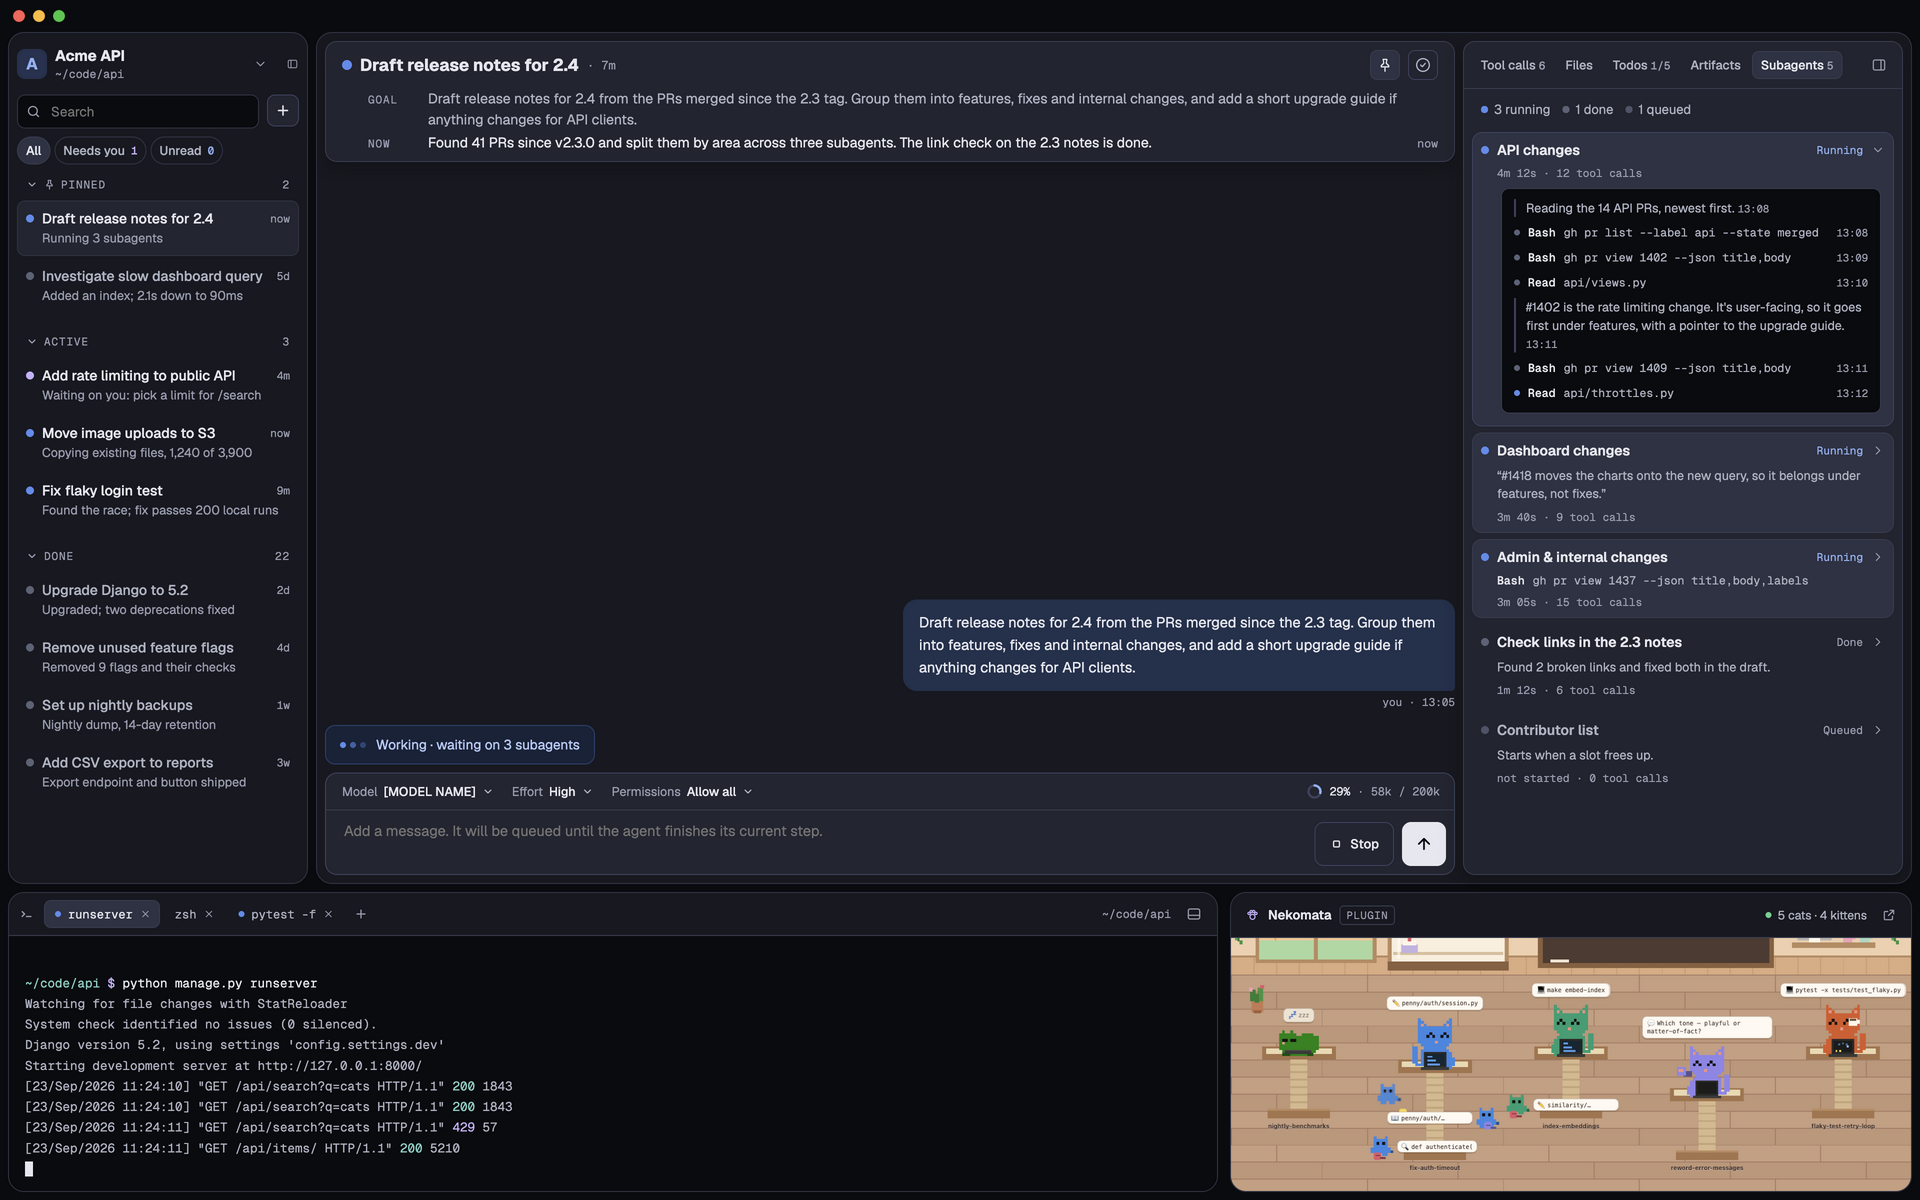
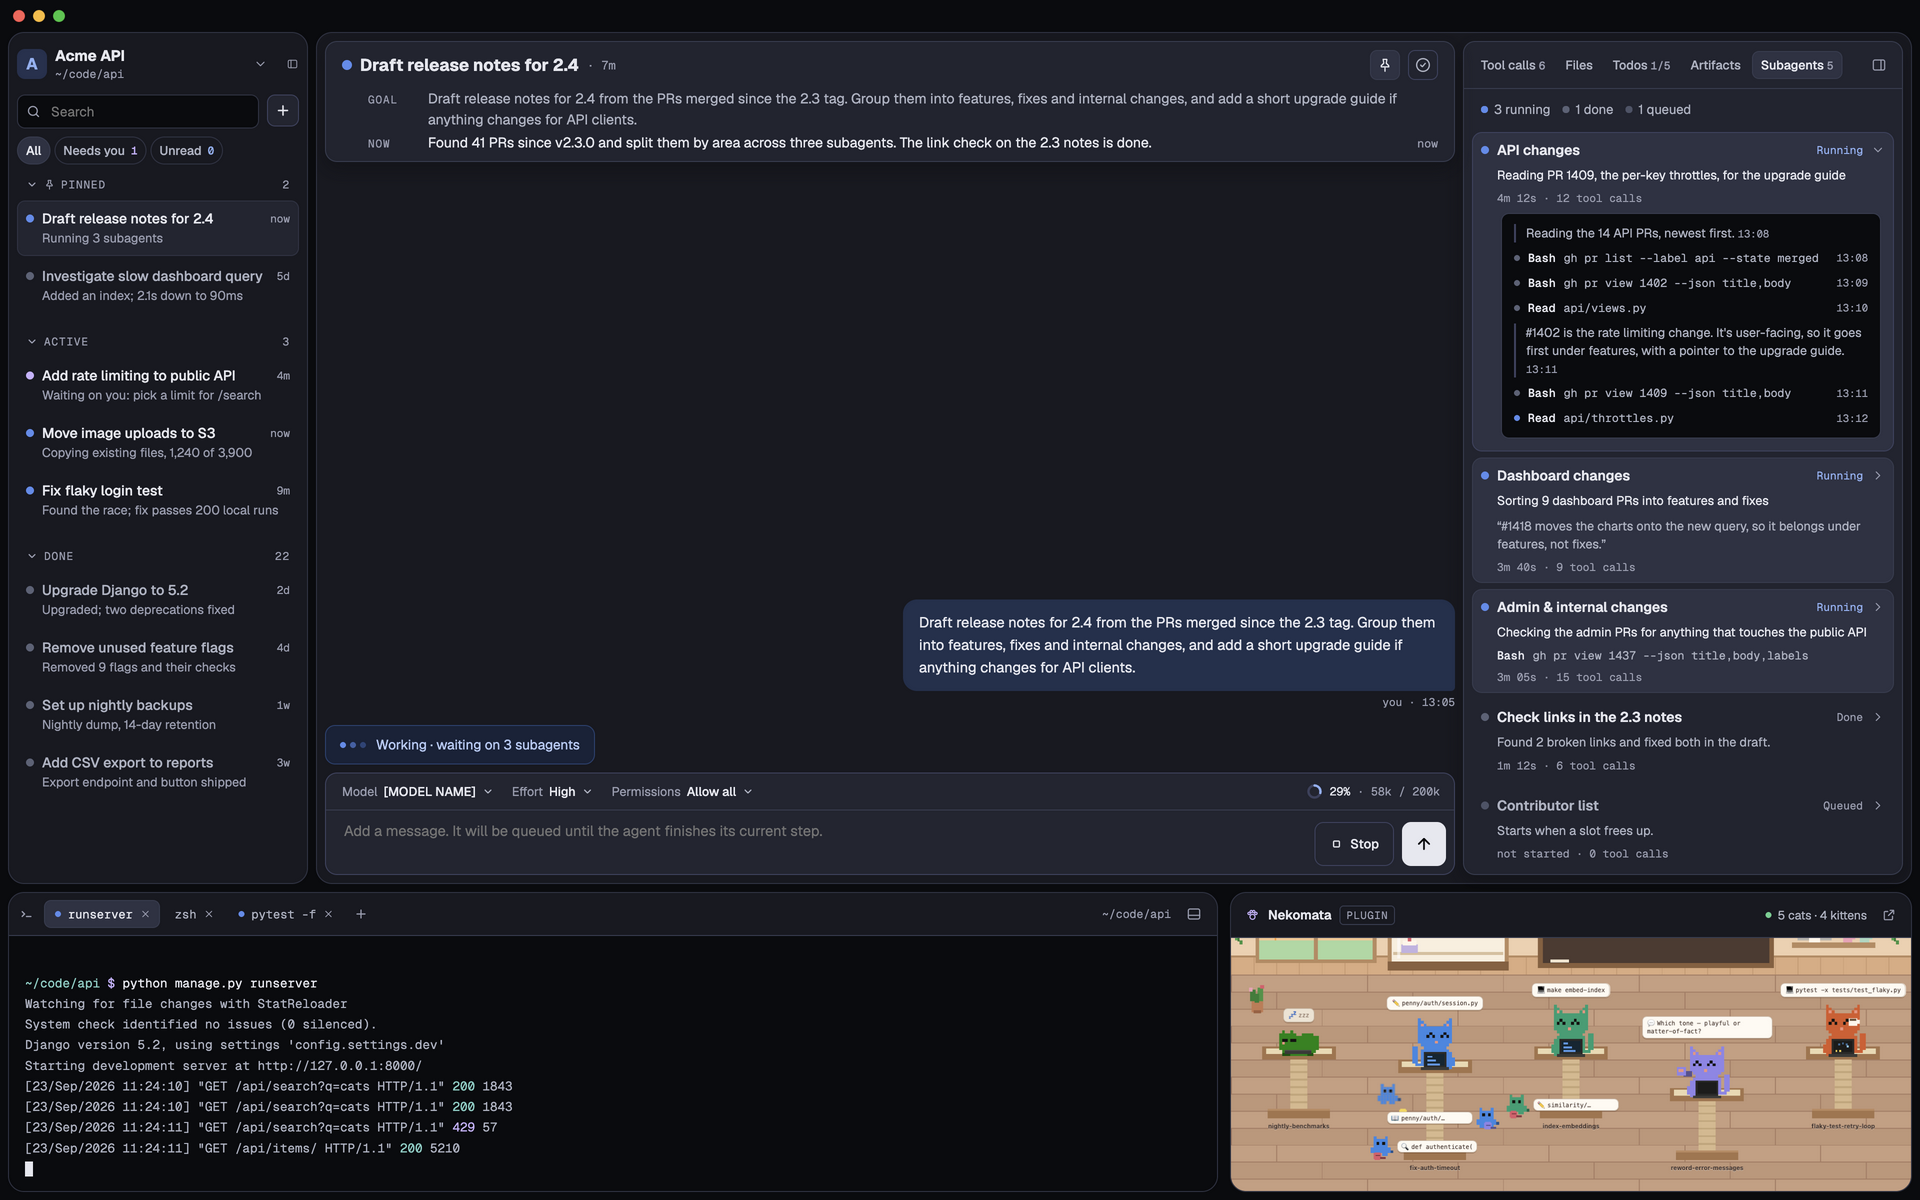
#278: Document progress summaries, and show them in the design and README
Record the probe of task_progress summaries in the SDK notes, describe
the line in the user guide, and re-render 11-subagents and the README's
Subagents screenshot with it.

Changed region(s): [[0.7812, 0.1233, 1.0, 0.7092], [0.9375, 0.5858, 0.9688, 0.6167]]

diff --git a/docs/design/html/11-subagents.html b/docs/design/html/11-subagents.html
@@ -140,6 +140,7 @@ a{color:#8FB2F5}a:hover{color:#B5CBF8}
 <div style="flex-shrink: 0; background: #2E3243; border: 1px solid #3D425E; border-radius: 10px">
 <button type="button" aria-expanded="true" style="display: flex; flex-direction: column; gap: 7px; width: 100%; box-sizing: border-box; padding: 8px; background: transparent; border: 0; text-align: left; font: inherit; color: inherit; cursor: pointer">
 <span style="display: flex; align-items: center; gap: 8px; width: 100%"><span style="flex-shrink: 0; width: 8px; height: 8px; border-radius: 4px; background: #5B8DEF"></span><span style="flex-grow: 1; min-width: 0; font-size: 14px; font-weight: 600; color: #E6E8F0; white-space: nowrap; overflow: hidden; text-overflow: ellipsis">API changes</span><span style="font-family: 'Geist Mono', ui-monospace, monospace; font-size: 11px; color: #8FB2F5">Running</span><span style="display: flex; color: #999DB0"><svg width="14" height="14" viewBox="0 0 24 24" fill="none" stroke="currentColor" stroke-width="2" stroke-linecap="round" stroke-linejoin="round"><path d="m6 9 6 6 6-6"></path></svg></span></span>
+<span title="Reading PR 1409, the per-key throttles, for the upgrade guide" style="display: block; width: 100%; box-sizing: border-box; padding-left: 16px; font-size: 12.5px; line-height: 1.45; color: #E6E8F0; white-space: nowrap; overflow: hidden; text-overflow: ellipsis">Reading PR 1409, the per-key throttles, for the upgrade guide</span>
 <span style="padding-left: 16px; font-family: 'Geist Mono', ui-monospace, monospace; font-size: 11px; color: #999DB0">4m 12s · 12 tool calls</span>
 </button>
 <div style="margin: 0 12px 12px 28px; padding: 8px 10px; background: #0A0B0F; border: 1px solid #373C4F; border-radius: 8px; display: flex; flex-direction: column; gap: 2px">
@@ -149,6 +150,7 @@ a{color:#8FB2F5}a:hover{color:#B5CBF8}
 <div style="flex-shrink: 0; background: #2E3243; border: 1px solid #373C4F; border-radius: 10px">
 <button type="button" aria-expanded="false" style="display: flex; flex-direction: column; gap: 7px; width: 100%; box-sizing: border-box; padding: 8px; background: transparent; border: 0; text-align: left; font: inherit; color: inherit; cursor: pointer">
 <span style="display: flex; align-items: center; gap: 8px; width: 100%"><span style="flex-shrink: 0; width: 8px; height: 8px; border-radius: 4px; background: #5B8DEF"></span><span style="flex-grow: 1; min-width: 0; font-size: 14px; font-weight: 600; color: #E6E8F0; white-space: nowrap; overflow: hidden; text-overflow: ellipsis">Dashboard changes</span><span style="font-family: 'Geist Mono', ui-monospace, monospace; font-size: 11px; color: #8FB2F5">Running</span><span style="display: flex; color: #999DB0"><svg width="14" height="14" viewBox="0 0 24 24" fill="none" stroke="currentColor" stroke-width="2" stroke-linecap="round" stroke-linejoin="round"><path d="m9 6 6 6-6 6"></path></svg></span></span>
+<span title="Sorting 9 dashboard PRs into features and fixes" style="display: block; width: 100%; box-sizing: border-box; padding-left: 16px; font-size: 12.5px; line-height: 1.45; color: #E6E8F0; white-space: nowrap; overflow: hidden; text-overflow: ellipsis">Sorting 9 dashboard PRs into features and fixes</span>
 <span style="display: flex; align-items: baseline; gap: 8px; width: 100%; box-sizing: border-box; padding-left: 16px"><span style="min-width: 0; font-size: 12.5px; line-height: 1.45; color: #AEB3C3; overflow: hidden; display: -webkit-box; -webkit-line-clamp: 2; -webkit-box-orient: vertical">“#1418 moves the charts onto the new query, so it belongs under features, not fixes.”</span></span>
 <span style="padding-left: 16px; font-family: 'Geist Mono', ui-monospace, monospace; font-size: 11px; color: #999DB0">3m 40s · 9 tool calls</span>
 </button>
@@ -156,6 +158,7 @@ a{color:#8FB2F5}a:hover{color:#B5CBF8}
 <div style="flex-shrink: 0; background: #2E3243; border: 1px solid #373C4F; border-radius: 10px">
 <button type="button" aria-expanded="false" style="display: flex; flex-direction: column; gap: 7px; width: 100%; box-sizing: border-box; padding: 8px; background: transparent; border: 0; text-align: left; font: inherit; color: inherit; cursor: pointer">
 <span style="display: flex; align-items: center; gap: 8px; width: 100%"><span style="flex-shrink: 0; width: 8px; height: 8px; border-radius: 4px; background: #5B8DEF"></span><span style="flex-grow: 1; min-width: 0; font-size: 14px; font-weight: 600; color: #E6E8F0; white-space: nowrap; overflow: hidden; text-overflow: ellipsis">Admin &amp; internal changes</span><span style="font-family: 'Geist Mono', ui-monospace, monospace; font-size: 11px; color: #8FB2F5">Running</span><span style="display: flex; color: #999DB0"><svg width="14" height="14" viewBox="0 0 24 24" fill="none" stroke="currentColor" stroke-width="2" stroke-linecap="round" stroke-linejoin="round"><path d="m9 6 6 6-6 6"></path></svg></span></span>
+<span title="Checking the admin PRs for anything that touches the public API" style="display: block; width: 100%; box-sizing: border-box; padding-left: 16px; font-size: 12.5px; line-height: 1.45; color: #E6E8F0; white-space: nowrap; overflow: hidden; text-overflow: ellipsis">Checking the admin PRs for anything that touches the public API</span>
 <span style="display: flex; align-items: baseline; gap: 8px; width: 100%; box-sizing: border-box; padding-left: 16px"><span style="flex-shrink: 0; font-family: 'Geist Mono', ui-monospace, monospace; font-size: 11.5px; font-weight: 500; color: #E6E8F0">Bash</span><span style="min-width: 0; font-family: 'Geist Mono', ui-monospace, monospace; font-size: 11.5px; color: #AEB3C3; white-space: nowrap; overflow: hidden; text-overflow: ellipsis">gh pr view 1437 --json title,body,labels</span></span>
 <span style="padding-left: 16px; font-family: 'Geist Mono', ui-monospace, monospace; font-size: 11px; color: #999DB0">3m 05s · 15 tool calls</span>
 </button>

diff --git a/docs/sdk-notes.md b/docs/sdk-notes.md
@@ -253,9 +253,48 @@ The tool is named `Agent` in `tool_use` (the init `tools` list shows `Task`). A 
   `parent_tool_use_id` set and `content: [{ "type": "text", "text": "…" }]`, the same shape as a top-level one. Its
   prompt also arrives, as a `user` message with a text block and the parent id; its thinking blocks came with empty
   `thinking` text.
-- `agentProgressSummaries: true` adds a one-line `summary` to `task_progress` about every 30s [docs].
+- `agentProgressSummaries: true` adds a one-line `summary` to `task_progress` about every 30s [verified, below].
 - Background Bash commands use the same `task_*` events with `task_type: "local_bash"`, plus
   `system/background_tasks_changed` [verified].
+
+**Progress summaries [verified]** (#278). Probed on SDK 0.3.281 with Haiku, in a throwaway folder, with
+`agentProgressSummaries: true`: one foreground subagent ran four `sleep 20 && echo …` Bash calls, one at a time, for
+82s. Timings are seconds from the start.
+
+```
+ 5.7  system/task_started   { task_id: "ae9b…", tool_use_id: "toolu_011g…", task_type: "local_agent", … }
+ 7.8  system/task_progress  { task_id: "ae9b…", tool_use_id: "toolu_011g…", description: "Running Wait 20 seconds then print one",
+                              usage: { total_tokens: 12170, tool_uses: 1, duration_ms: 2075 }, last_tool_name: "Bash" }
+29.4  system/task_progress  { …, description: "Running Wait 20 seconds then print two", usage: { …, tool_uses: 2 }, last_tool_name: "Bash" }
+39.4  system/task_progress  { task_id: "ae9b…", tool_use_id: "toolu_011g…", description: "Running sleep 20 && echo one",
+                              subagent_type: "general-purpose", usage: { total_tokens: 13530, tool_uses: 2, duration_ms: 33651 },
+                              summary: "Running sleep 20 && echo one" }                  ← no last_tool_name
+50.4  system/task_progress  { …, description: "Running Wait 20 seconds then print three", usage: { …, tool_uses: 3 }, last_tool_name: "Bash" }
+71.5  system/task_progress  { …, description: "Running Wait 15 seconds then print four", usage: { …, tool_uses: 4 }, last_tool_name: "Bash" }
+73.4  system/task_progress  { …, description: "Executing second bash command.", usage: { …, tool_uses: 4, duration_ms: 67675 },
+                              summary: "Executing second bash command." }
+87.5  system/task_updated   { task_id: "ae9b…", patch: { status: "completed", end_time: … } }
+87.5  system/task_notification { task_id: "ae9b…", status: "completed", summary: <its final reply>, usage: { … } }
+```
+
+- A summary comes on a `task_progress` of its own, about every 30s after the subagent starts (here at 39s and 73s),
+  with `summary` set, `description` the same text, and no `last_tool_name`. The progress messages after each tool call
+  carry no `summary`, as before.
+- It's one short line, but not always current: the fork summarises the conversation so far, so it can lag a call or
+  two behind (at 39s it named the first command while the second ran; at 73s it said "second" during the fourth).
+- None came after the subagent ended in this run, but nothing in the SDK's types rules a late one out.
+- The subagent's own foreground Bash calls got `task_started` and `task_notification` of their own (`local_bash`,
+  `owned_by_subagent: true`), as in "Background subagents" below.
+
+**Implications for Glade (#278)**
+
+- Glade sets `agentProgressSummaries: true`. The runner reads a `task_progress` that has a `summary` and names a
+  `tool_use_id`, collapses its whitespace to one line, and keeps it on that `Agent` call's row in SQLite
+  (`progress_summary`) while the call runs. One for a call that has finished, isn't an `Agent` or `Task` call, or
+  isn't in the log is ignored. The row's summary is cleared once the call stops running (done, failed, paused or
+  interrupted, a relaunch included).
+- The Subagents tab shows it under a running subagent's name, on one line with the whole of it in its tooltip. It
+  isn't sent to plugins.
 
 **Implications for Glade (P5-05)**
 
@@ -335,7 +374,7 @@ the start.
   from its call's "launched" result, or from a later move to the background. Its `Agent` call's row keeps running
   until its `task_notification`. Then it's done, or failed with the summary. A stopped one fails with "You stopped the
   subagent.", as a stopped turn's calls do. The Subagents tab counts its calls and times it from the tool log, as for
-  any subagent. Glade doesn't read `task_progress`.
+  any subagent. Glade reads `task_progress` only for its summary (see "Subagents" above).
 - Its calls and notes are logged whenever they arrive, with the turn its `Agent` call was made in. They never open a
   turn, and the end of a turn doesn't fail them. Its calls still running when it ends fail with it.
 - Stop subagent calls `stopTask` with its task id, as for a foreground one.

diff --git a/docs/logs.md b/docs/logs.md
@@ -38,7 +38,7 @@ One JSON object per line:
 | `db`            | The database opening: its file, and the schema version before and after migrating.                        |
 | `ipc`           | Every command from the window: its name, task, how long it took, and whether it failed (with the error). Never its request. |
 | `agent`         | Each agent session starting, resuming and closing (model, effort, folder, the SDK session id, the Claude Code executable and `PATH`); every message the SDK sends, by type and subtype, with tool names and ids, and usage, cost and duration for results; the usage limit; messages it couldn't read. |
-| `runner`        | Turns starting and ending, and each result; stops, retries, API errors and their retries; pauses resuming; subagents starting and being stopped; compaction; the queue delivered mid-turn; turns resumed after a relaunch; tool calls allowed without asking (debug), and permission requests made, answered and withdrawn. |
+| `runner`        | Turns starting and ending, and each result; stops, retries, API errors and their retries; pauses resuming; subagents starting and being stopped, and their progress summaries (debug); compaction; the queue delivered mid-turn; turns resumed after a relaunch; tool calls allowed without asking (debug), and permission requests made, answered and withdrawn. |
 | `task`          | A task created, deleted, and each change of its state, activity, error, pause, retry, question, permission request waiting, title, model, effort, permission mode and session id. |
 | `chat`          | Each message added (who, which turn, how long) and the queue. The text itself at debug.                   |
 | `tools`         | Each tool call starting and finishing (name, id, the subagent call it belongs to, how long it took, and whether it failed), narration, dividers, compactions, todos, artifacts and files shown. Tool input and output at debug. |

diff --git a/docs/design/README.md b/docs/design/README.md
@@ -17,7 +17,7 @@ illustrative. Tokens are in `tokens.md`; exact markup per screen in `html/`.
 | 8 · Open a file | Files tab with open-file tabs, source/preview toggle; the drag handles that resize the sidebar, right panel and bottom bar. | ![8 · Open a file](screens/08-open-file.png) |
 | 9 · Todos | The agent's checklist with progress, and each task's progress on its sidebar row (a ring and `3/7`; a check once all are done). | ![9 · Todos](screens/09-todos.png) |
 | 10 · Artifacts | Deliverables with Open / Copy / Reveal. | ![10 · Artifacts](screens/10-artifacts.png) |
-| 11 · Subagents | Status and latest line per subagent; one expanded inline to its log. | ![11 · Subagents](screens/11-subagents.png) |
+| 11 · Subagents | Status and latest line per subagent, and under a running one's name the SDK's one-line summary of what it's doing now (#278); one expanded inline to its log. | ![11 · Subagents](screens/11-subagents.png) |
 | 12 · Right-click a task | Task context menu in place. ("Reveal folder in Finder" was removed; see `../context-menus.md`.) | ![12 · Right-click a task](screens/12-right-click-task.png) |
 | 13 · Context menus | Every context menu. `../context-menus.md` is authoritative ("Reveal folder in Finder" was removed). | ![13 · Context menus](screens/13-context-menus.png) |
 | 14 · Workspace switcher | Sidebar dropdown with per-workspace counts. | ![14 · Workspace switcher](screens/14-workspace-switcher.png) |

diff --git a/docs/user-guide.md b/docs/user-guide.md
@@ -202,9 +202,11 @@ the panel; drag its edge to resize it.
   same progress (`3/7`, or a check once all are done); hover it to see what the agent is working on.
 - **Artifacts:** the files the agent named as its deliverables, as cards with **Open**, **Copy** and **Reveal in
   folder**. They stay after the task is done.
-- **Subagents:** one row per subagent, running ones first, with what it's doing now, how long it's run and its tool
-  calls. Click one to open its log; right-click a running one to stop it. A subagent's own tool calls live here, not in
-  Tool calls.
+- **Subagents:** one row per subagent, running ones first, with how long it's run and its tool calls. A running one
+  shows a one-line summary of what it's doing now under its name (refreshed about every 30 seconds; hover it for the
+  whole line), then its latest tool call or the last thing it said; a finished one shows what it came to.
+  Click one to open its log; right-click a running one to stop it. A subagent's own tool calls live here, not in Tool
+  calls.
 - **Watchers:** what the agent left running or scheduled to wake itself later: a watch on a command's output (a PR's
   CI, a deploy's log, whatever script it wrote), a command in the background, a check-back at a set time, or a
   recurring job. Each row says what it runs, whether it's running, due, or ended and how, what it last reported, and how

diff --git a/docs/plugin-api.md b/docs/plugin-api.md
@@ -197,8 +197,8 @@ interface PluginPermissionRequest {
 ```
 
 **Not sent:** chat messages and final replies, the queue, file contents, tool inputs beyond the summary above and all
-tool results (a subagent's outcome included), question options and answers, permission prompts and deny notes, todos,
-artifacts, the terminal, settings, and anything about the machine. A plugin sees what the task list, tool log and Subagents tab summarise, and no more.
+tool results (a subagent's outcome included), a running subagent's progress summary, question options and answers,
+permission prompts and deny notes, todos, artifacts, the terminal, settings, and anything about the machine. A plugin sees what the task list, tool log and Subagents tab summarise, and no more.
 
 ## Messages (plugin to Glade)
 
